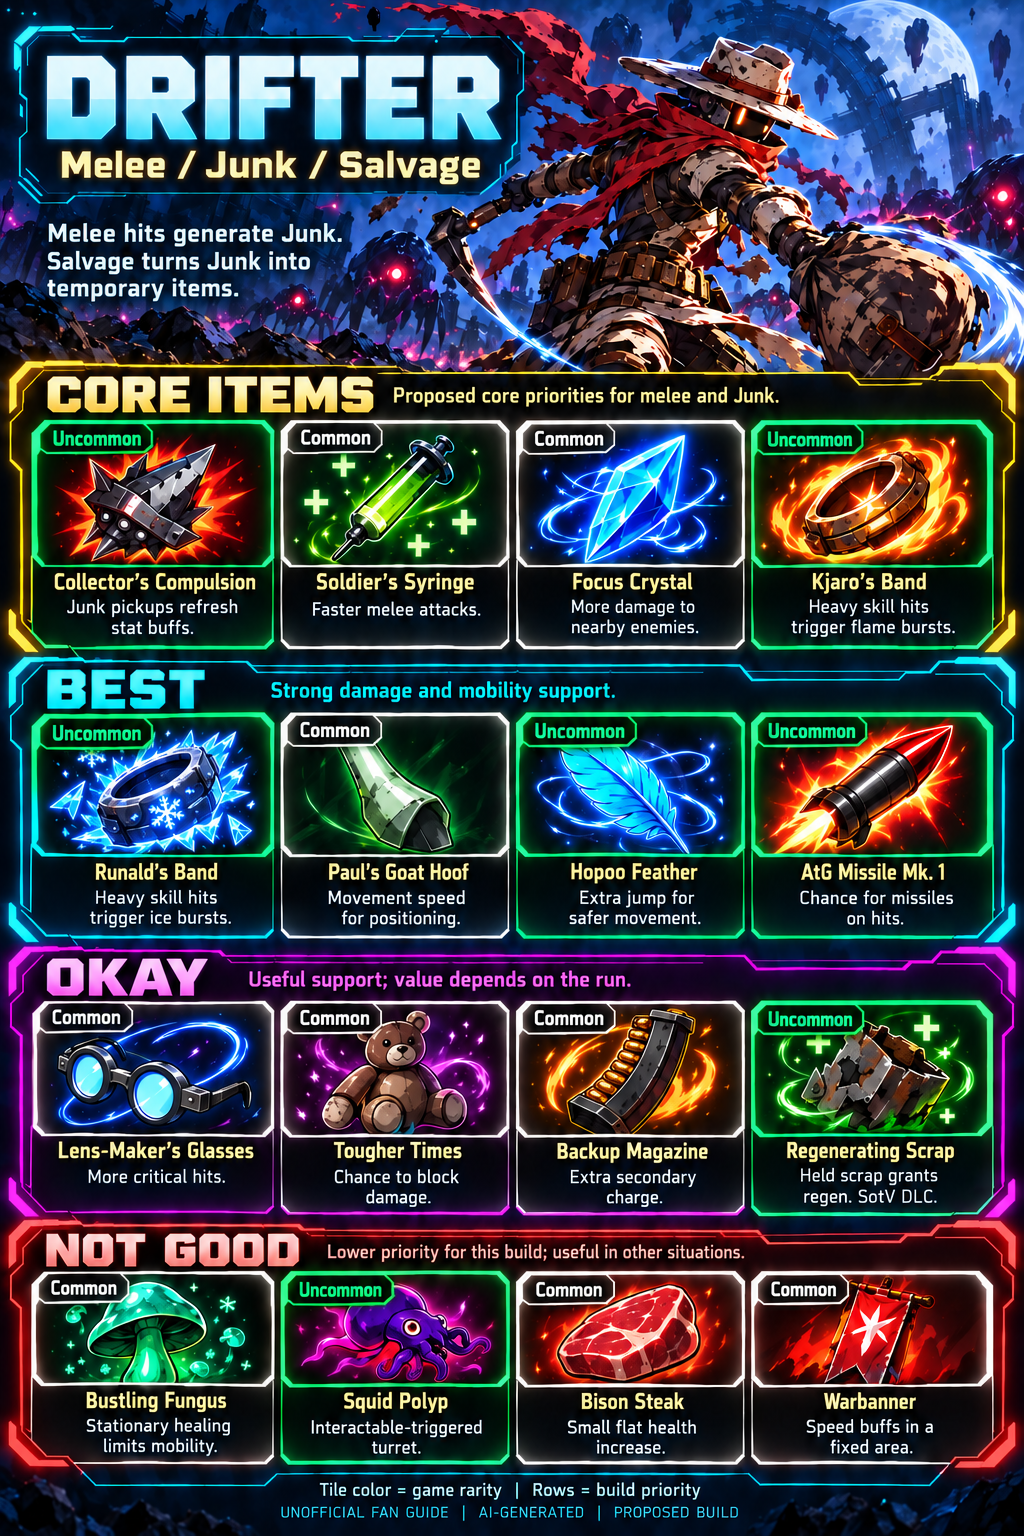
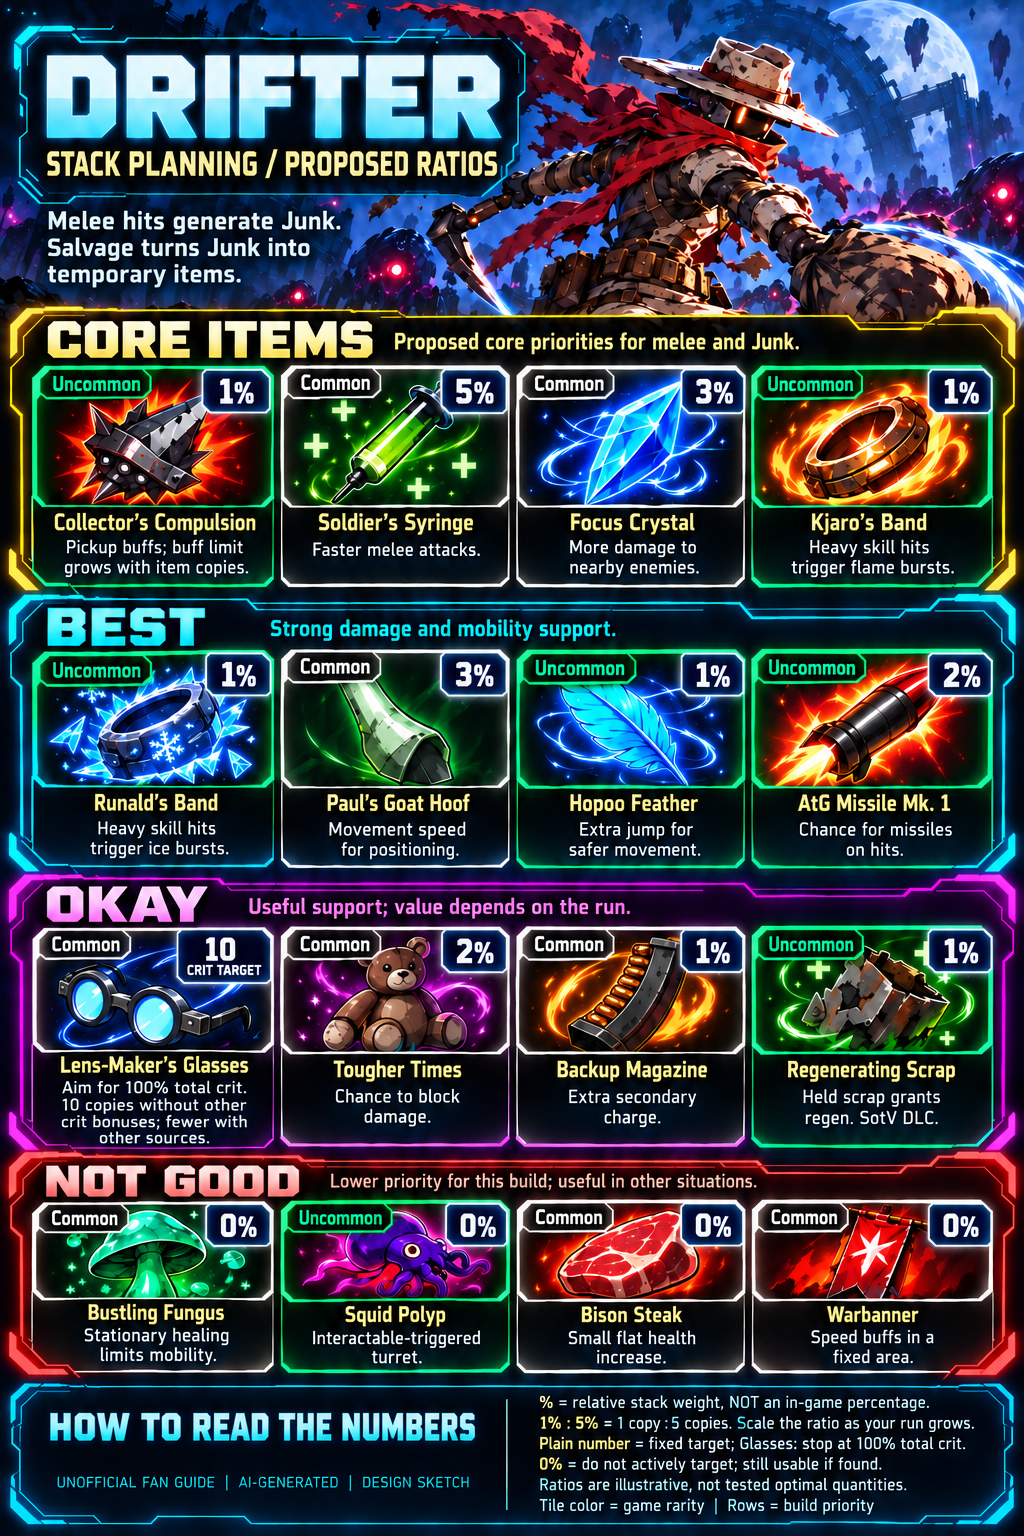
feat: add Drifter survivor abilities panel and update tier guide with stack-planning sketch

diff --git a/src/data/abilities.ts b/src/data/abilities.ts
@@ -1,0 +1,84 @@
+export type Ability = { name: string; summary: string; cooldown?: string; note?: string };
+export type AbilitySlot = { role: string; choices: Ability[] };
+export type SurvivorLoadout = { context: string; slots: AbilitySlot[] };
+
+export const survivorLoadouts: Record<string, SurvivorLoadout> = {
+  drifter: {
+    context: 'Melee / Junk / Salvage. Match these selections to your in-game loadout.',
+    slots: [
+      {
+        role: 'Passive',
+        choices: [
+          {
+            name: 'Trash to Treasure',
+            summary:
+              'Carried scrap grants buffs: white boosts movement, green adds regeneration, red boosts attack speed, and yellow reduces skill cooldowns.',
+            note: 'Regenerating Scrap also counts as green scrap.',
+          },
+        ],
+      },
+      {
+        role: 'Primary',
+        choices: [
+          {
+            name: 'Blunt Force',
+            summary:
+              'A three-hit melee combo. The final strike hits harder and stuns; attacks can generate Junk.',
+            cooldown: 'No base cooldown',
+            note: 'While carrying a bagged object, your primary becomes Bludgeon.',
+          },
+        ],
+      },
+      {
+        role: 'Secondary',
+        choices: [
+          {
+            name: 'Cleanup',
+            summary:
+              'Throw debris and the object in your bag. Spend 2 Junk to bypass the cooldown.',
+            cooldown: '6 s base cooldown',
+          },
+          {
+            name: 'Junk Cube',
+            summary:
+              'Create a cube, then hit it to launch it at enemies. Spend 4 Junk to bypass the cooldown.',
+            cooldown: '8 s base cooldown',
+          },
+        ],
+      },
+      {
+        role: 'Utility',
+        choices: [
+          {
+            name: 'Repossess',
+            summary:
+              'Leap and bag a creature or interactable. Reactivate to throw it with Discard.',
+            cooldown: '7 s base cooldown',
+            note: 'Bagged objects change your primary attack; bosses cannot be bagged.',
+          },
+          {
+            name: 'Tornado Slam',
+            summary:
+              'Spin through enemies, generating Junk, then finish with a slam. Cancel with primary or a jump.',
+          },
+        ],
+      },
+      {
+        role: 'Special',
+        choices: [
+          {
+            name: 'Salvage',
+            summary: 'Spend 8 Junk to create four temporary items.',
+            cooldown: '30 s base cooldown',
+          },
+          {
+            name: 'Tinker',
+            summary:
+              'Spend 8 Junk on a stunning shockwave and a random debuff. It also alters item pickups or item-holding interactables.',
+            cooldown: '30 s base cooldown',
+          },
+        ],
+      },
+    ],
+  },
+};

diff --git a/src/components/AbilityPanel.tsx b/src/components/AbilityPanel.tsx
@@ -1,0 +1,63 @@
+import { useState } from 'react';
+import type { SurvivorLoadout } from '../data/abilities';
+import { wiki } from '../data/references';
+import ExternalLink from './ExternalLink';
+
+export default function AbilityPanel({
+  survivorName,
+  loadout,
+}: {
+  survivorName: string;
+  loadout: SurvivorLoadout;
+}) {
+  const [selected, setSelected] = useState<Record<string, number>>({});
+  return (
+    <aside className="ability-panel" aria-label={`${survivorName} abilities`}>
+      <p className="eyebrow">LOADOUT / QUICK REFERENCE</p>
+      <h2>{survivorName} abilities</h2>
+      <p className="ability-context">{loadout.context}</p>
+      <div className="ability-slots">
+        {loadout.slots.map((slot) => {
+          const ability = slot.choices[selected[slot.role] ?? 0];
+          return (
+            <article className="ability-card" key={slot.role}>
+              <p className="ability-role">{slot.role}</p>
+              {slot.choices.length > 1 ? (
+                <label>
+                  <span className="sr-only">
+                    {survivorName} {slot.role} ability
+                  </span>
+                  <select
+                    value={selected[slot.role] ?? 0}
+                    onChange={(e) =>
+                      setSelected({ ...selected, [slot.role]: Number(e.target.value) })
+                    }
+                  >
+                    {slot.choices.map((choice, i) => (
+                      <option value={i} key={choice.name}>
+                        {choice.name}
+                      </option>
+                    ))}
+                  </select>
+                </label>
+              ) : (
+                <h3>{ability.name}</h3>
+              )}
+              {ability.cooldown && <span className="ability-cooldown">{ability.cooldown}</span>}
+              <p>{ability.summary}</p>
+              {ability.note && <p className="ability-note">{ability.note}</p>}
+            </article>
+          );
+        })}
+      </div>
+      <p className="ability-source">
+        <ExternalLink href={`${wiki(survivorName)}#Skills`}>
+          Full skills, numbers & unlocks
+        </ExternalLink>
+        <br />
+        Wiki summaries checked October 11, 2026. Selecting a skill updates this reference; item
+        ratios remain the proposed sketch.
+      </p>
+    </aside>
+  );
+}

diff --git a/src/pages/SurvivorPage.tsx b/src/pages/SurvivorPage.tsx
@@ -3,7 +3,10 @@ import ImageViewer from '../components/ImageViewer';
 import { survivors, type Survivor } from '../data/survivors';
 import { corrections, itemWiki, uncertainItems, wiki } from '../data/references';
 import { itemRarity } from '../data/rarities';
+import AbilityPanel from '../components/AbilityPanel';
+import { survivorLoadouts } from '../data/abilities';
 export default function SurvivorPage({ survivor: s }: { survivor: Survivor }) {
+  const loadout = survivorLoadouts[s.id];
   return (
     <main id="main" className="detail">
       <a className="back" href="#survivors">
@@ -23,7 +26,7 @@ export default function SurvivorPage({ survivor: s }: { survivor: Survivor }) {
             <p className="eyebrow">SURVIVOR INFOGRAPHIC</p>
             <ImageViewer src={s.image} name={s.name} />
           </section>
-          {s.tierImage && (
+          {s.tierImage && !loadout && (
             <section id="tier-guide" className="available-tier-guide">
               <p className="eyebrow">AVAILABLE TIER GUIDE</p>
               <h2>{s.name} tier guide</h2>
@@ -125,6 +128,20 @@ export default function SurvivorPage({ survivor: s }: { survivor: Survivor }) {
           </details>
         </aside>
       </div>
+      {s.tierImage && loadout && (
+        <section
+          id="tier-guide"
+          className="available-tier-guide tier-guide-pilot"
+          aria-label={`${s.name} tier guide and abilities`}
+        >
+          <p className="eyebrow">AVAILABLE TIER GUIDE</p>
+          <h2>{s.name} tier guide</h2>
+          <div className="tier-guide-layout">
+            <ImageViewer src={s.tierImage} name={`${s.name} tier guide`} />
+            <AbilityPanel key={s.id} survivorName={s.name} loadout={loadout} />
+          </div>
+        </section>
+      )}
       <nav className="detail-next" aria-label="Other survivor guides">
         {survivors
           .filter((x) => x.dlc === s.dlc && x.id !== s.id)

diff --git a/src/styles/global.css b/src/styles/global.css
@@ -1239,6 +1239,96 @@ summary small {
 .available-tier-guide h2 {
   font-size: 32px;
 }
+.tier-guide-pilot {
+  margin-top: 48px;
+}
+.tier-guide-layout {
+  display: grid;
+  grid-template-columns: minmax(0, 1.1fr) minmax(0, 1fr);
+  gap: 40px;
+  align-items: start;
+}
+.ability-panel {
+  position: sticky;
+  top: 24px;
+  max-height: calc(100dvh - 48px);
+  overflow-y: auto;
+  padding: 24px;
+  border: 1px solid var(--line);
+  border-top: 3px solid var(--lime);
+  border-radius: 6px;
+  background: var(--panel);
+  scrollbar-width: thin;
+}
+.ability-panel h2 {
+  margin: 4px 0 12px;
+}
+.ability-context {
+  color: var(--muted);
+  font-size: 15px;
+}
+.ability-slots {
+  display: grid;
+  gap: 12px;
+  margin-top: 20px;
+}
+.ability-card {
+  padding: 16px;
+  border: 1px solid var(--line);
+  border-radius: 4px;
+  background: #0c1519;
+}
+.ability-card .ability-role {
+  margin: 0 0 6px;
+  color: var(--lime);
+  font-size: 12px;
+  font-weight: 700;
+  letter-spacing: 0.1em;
+  text-transform: uppercase;
+}
+.ability-card h3 {
+  margin: 0;
+  font-size: 24px;
+}
+.ability-card select {
+  width: 100%;
+  margin: 0;
+  min-height: 44px;
+  font-size: 17px;
+}
+.ability-card p {
+  margin: 10px 0 0;
+  font-size: 16px;
+  line-height: 1.6;
+}
+.ability-cooldown {
+  display: inline-block;
+  margin-top: 8px;
+  color: #b8dcdf;
+  font-size: 12px;
+}
+.ability-card .ability-note {
+  color: var(--muted);
+  font-size: 14px;
+}
+.ability-source {
+  margin-bottom: 0;
+  color: var(--muted);
+  font-size: 12px;
+  line-height: 1.7;
+}
+@media (max-width: 800px) {
+  .tier-guide-layout {
+    grid-template-columns: 1fr;
+    gap: 24px;
+  }
+  .ability-panel {
+    position: static;
+    max-height: none;
+    overflow: visible;
+    padding: 20px;
+  }
+}
 .home-maps {
   margin: 40px 0;
 }

diff --git a/docs/image-prompts/drifter-stack-sketch.md b/docs/image-prompts/drifter-stack-sketch.md
@@ -1,0 +1,64 @@
+# Drifter stack-planning sketch
+
+This visual proposal was approved and installed as `assets/tier-guides/drifter.png`. The retained sketch is `../mockups/drifter-stack-sketch.png`. Only Drifter's tier guide was replaced; its starter remains unchanged. Method: built-in `image_gen`, using the previous `assets/tier-guides/drifter.png` as the edit reference. Stack ratios remain illustrative despite adoption of the layout.
+
+## Number notation
+
+The requested `%` symbol is a custom ratio marker. It is not a literal share of inventory, an item effect, or a proc chance. A `1%` tile and a `5%` tile propose one copy of the first item for every five copies of the second. The weights do not need to sum to 100. Multiplying both counts preserves the ratio: 2:10, 3:15, etc. All ratio values below are illustrative design choices, not researched optimal stack counts. Common and uncommon items come from different pools; availability and the current run take precedence.
+
+A plain number indicates an absolute target tied to a stated condition. It must not imply that an uncapped item stops stacking. `0%` means no deliberate acquisition target, not that the item is useless or should always be scrapped.
+
+| Row        | Item                   | Badge | Meaning                                                                   |
+| ---------- | ---------------------- | ----- | ------------------------------------------------------------------------- |
+| Core Items | Collector's Compulsion | 1%    | Example ratio weight                                                      |
+| Core Items | Soldier's Syringe      | 5%    | Example ratio weight                                                      |
+| Core Items | Focus Crystal          | 3%    | Example ratio weight                                                      |
+| Core Items | Kjaro's Band           | 1%    | Example ratio weight                                                      |
+| Best       | Runald's Band          | 1%    | Example ratio weight                                                      |
+| Best       | Paul's Goat Hoof       | 3%    | Example ratio weight                                                      |
+| Best       | Hopoo Feather          | 1%    | Example ratio weight                                                      |
+| Best       | AtG Missile Mk. 1      | 2%    | Example ratio weight                                                      |
+| Okay       | Lens-Maker's Glasses   | 10    | Baseline crit target without other crit bonuses; fewer copies may suffice |
+| Okay       | Tougher Times          | 2%    | Example ratio weight; diminishing returns, not a fixed cap                |
+| Okay       | Backup Magazine        | 1%    | Example ratio weight                                                      |
+| Okay       | Regenerating Scrap     | 1%    | Example ratio weight                                                      |
+| Not Good   | Bustling Fungus        | 0%    | Do not actively target in this proposal                                   |
+| Not Good   | Squid Polyp            | 0%    | Do not actively target in this proposal                                   |
+| Not Good   | Bison Steak            | 0%    | Do not actively target in this proposal                                   |
+| Not Good   | Warbanner              | 0%    | Do not actively target in this proposal                                   |
+
+## Checked mechanics
+
+Checked October 11, 2026 using indexed wiki entries. These checks support stacking distinctions; they do not validate the proposed ratios.
+
+- [Crit and proc coefficient](https://riskofrain2.wiki.gg/wiki/Proc_Coefficient): attacks are guaranteed critical strikes at 100% crit; ten Glasses are a baseline way to reach this. Other crit sources, including temporary buffs, can reduce the needed copies. The target is total crit, not a universal ten-copy requirement.
+- [Collector's Compulsion](https://riskofrain2.wiki.gg/wiki/Collector%27s_Compulsion): temporary pickup buffs have a limit of three at one copy, increasing by two for each additional copy. This is a buff-stack limit, not a three-copy item cap.
+- [Soldier's Syringe](https://riskofrain2.wiki.gg/wiki/Soldier%27s_Syringe) stacks attack-speed bonuses linearly. No fixed item cap is asserted here.
+- [Tougher Times](https://riskofrain2.wiki.gg/wiki/Tougher_Times) uses hyperbolic stacking. Diminishing returns do not justify a finite hard cap.
+- [Regenerating Scrap](https://riskofrain2.wiki.gg/wiki/Regenerating_Scrap) counts as green scrap for Drifter's passive and has printer utility; its proposed ratio is not a game limit.
+
+## Review
+
+Visually reviewed the generated sketch: all 16 items and four rows remain present; each top-right badge matches the table above. Rarity labels stay separate at the top left. The Glasses count includes the conditional crit target; Collector's Compulsion is not mislabeled with a fixed three-copy cap. The bottom legend explains ratios, fixed targets, zero targets, rarity, and the illustrative status. No clipped headings or missing cards were found.
+
+This PNG follows the same image licensing exclusions as the other generated artwork; the project's MIT license covers this authored Markdown, not the sketch image or game intellectual property.
+
+## Exact edit prompt
+
+```text
+Edit the referenced Drifter tier-guide into a polished portrait STACK-PLANNING SKETCH. Preserve Drifter illustration and all sixteen item names, icons, rarity border colors and the four rows CORE ITEMS, BEST, OKAY, NOT GOOD. Preserve row memberships. Add a compact badge at the TOP RIGHT of EACH individual item icon tile, distinct from the small rarity label at TOP LEFT. Badges have a dark navy background and bright white text; readable and identical size across all tiles. These badges represent suggested item-copy ratios, never in-game bonuses. Use exactly these badge texts:
+CORE ITEMS: Collector's Compulsion "1%"; Soldier's Syringe "5%"; Focus Crystal "3%"; Kjaro's Band "1%".
+BEST: Runald's Band "1%"; Paul's Goat Hoof "3%"; Hopoo Feather "1%"; AtG Missile Mk. 1 "2%".
+OKAY: Lens-Maker's Glasses "10" with tiny "CRIT TARGET" text immediately below the number; Tougher Times "2%"; Backup Magazine "1%"; Regenerating Scrap "1%".
+NOT GOOD: Bustling Fungus "0%"; Squid Polyp "0%"; Bison Steak "0%"; Warbanner "0%".
+Do not invent additional fixed caps. In the glasses description replace existing text with "Aim for 100% total crit. 10 copies without other crit bonuses; fewer with other sources." In Collector's description use "Pickup buffs; buff limit grows with item copies." Other descriptions can be kept or shortened to allow room, without new gameplay claims.
+Add "STACK PLANNING / PROPOSED RATIOS" beneath the DRIFTER title. Expand the bottom legend panel if needed; extend canvas height rather than crowding, cropping or omitting tiles. Bottom legend exact text in clearly separated lines:
+"HOW TO READ THE NUMBERS"
+"% = relative stack weight, NOT an in-game percentage."
+"1% : 5% = 1 copy : 5 copies. Scale the ratio as your run grows."
+"Plain number = fixed target; Glasses: stop at 100% total crit."
+"0% = do not actively target; still usable if found."
+"Ratios are illustrative, not tested optimal quantities."
+"Tile color = game rarity | Rows = build priority"
+Keep footer "UNOFFICIAL FAN GUIDE | AI-GENERATED | DESIGN SKETCH". This is a legible visual proposal, not a production certified build. All sixteen cards, four rows, exact badge assignments, no official logos. Favor larger clear badge numerals and a spacious bottom explanation. Output one portrait infographic.
+```

diff --git a/README.md b/README.md
@@ -100,6 +100,12 @@ Each generated guide has editable arrays in `src/data/tier-guides/<id>.json`. Th
 
 ## Accuracy and sources
 
+### Drifter preview
+
+Drifter uses the approved numbered tier guide and a companion abilities panel. On desktop the panel sits beside the guide and stays within that guide's scroll area; on smaller screens it stacks below the image. The default loadout is Blunt Force, Cleanup, Repossess, and Salvage. Selectors show alternate Secondary, Utility, and Special summaries. Selections change the quick reference, not the guide's proposed item ratios. The panel is keyed to the current survivor, so it cannot follow navigation to a different survivor accidentally.
+
+This is the first survivor preview. Add later loadouts in `src/data/abilities.ts`; presentation lives in `src/components/AbilityPanel.tsx`. [Drifter's skills](https://riskofrain2.wiki.gg/wiki/Drifter#Skills) and the [skill database](https://riskofrain2.wiki.gg/wiki/Module:Skills/Data) were checked October 11, 2026 using indexed wiki entries. Summaries are paraphrased; the source link includes full numbers and unlock conditions.
+
 Artwork is AI-generated, not official item sprites or verified tier lists. The item indexes are transcriptions rather than endorsements. Some icons, mechanics, and recommendations may still be inaccurate. The old False Son starter-only labels were removed during consistency edits; they were not mapped to other items. Collector’s Compulsion was confirmed during Drifter research. Previously identified mechanics corrections appear in the site, and were applied to the revised original three tier guides where relevant.
 
 Wiki search excerpts were reviewed October 11, 2026; direct wiki page retrieval returned HTTP 403. This limited mechanics review does not certify all item recommendations or rankings.

diff --git a/docs/core-item-audit.md b/docs/core-item-audit.md
@@ -37,6 +37,8 @@ Exact prompts, per-image hashes, visual-review notes, and rarity sources are in 
 
 ## Verification after revisions
 
+Drifter's tier guide was subsequently replaced with the approved [stack-planning sketch](image-prompts/drifter-stack-sketch.md), retaining the same row membership and rarity categories. Its starter was not changed. A readable companion abilities panel is the first-survivor preview; selectors affect only the displayed skill reference, not the sketch's proposed item ratios.
+
 Lint, formatting checks, TypeScript, and the production Vite build passed. Local DOM checks passed for all 20 detail routes, the Core Items heading, a colored rarity label for every indexed item, current starter/tier image references, gallery filters, image dialogs, and GitHub Pages asset paths. File checks confirmed all 40 revised PNG hashes and dimensions, rarity lookup coverage, and matching starter core arrays. Native browser layout and touch interaction remain outside this DOM check.
 
 ## Original findings (before coordinated edits)

diff --git a/docs/image-prompts/revisions/drifter.md b/docs/image-prompts/revisions/drifter.md
@@ -1,5 +1,7 @@
 # Drifter coordinated image revision
 
+The tier PNG recorded below was subsequently replaced with the approved [stack-planning sketch](../drifter-stack-sketch.md). Its earlier hash and prompt remain here as revision history. The starter from this record remains current.
+
 Method: built-in image_gen edits. References: existing starter as edit target; existing tier guide as edit target or item reference. Item rarity source: [rarity verification](README.md). Rankings remain proposed, icons remain generated.
 
 ## Tier-guide edit prompt
